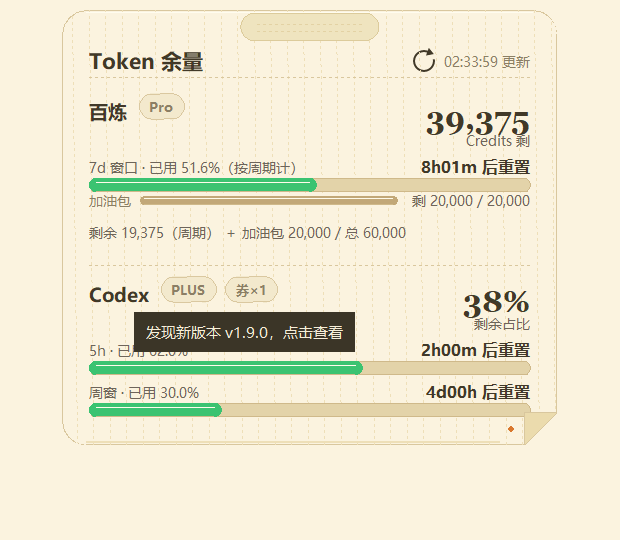
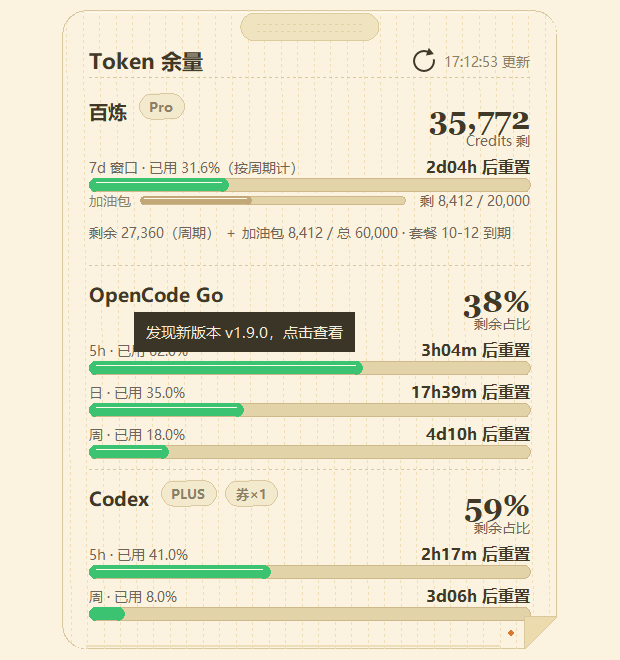
docs: 门面素材升级至 v1.8.3 三源真态模拟（Go 三窗条/套餐到期/官方图标）

diff --git a/tools/make_gif.py b/tools/make_gif.py
@@ -8,8 +8,8 @@
 便笺 495×435、弹窗 599×330、tooltip 等同屏元素同刻度，全部帧 1:1 截取无重采样，
 成品 620×540（宽 ≤660 达成）。
 
-帧序列（200ms/帧，无限循环）：
-    f1 静置两行（百炼 39,375 系假数据 + Codex 双主条）
+帧序列（200ms/帧，无限循环；v1.8.3 三源真态数据，与 tests/capture_m24.py 同口径）：
+    f1 静置三行（百炼 35,772＋套餐到期灰档后缀 / Go 三主条 5h·日·周 / Codex 双条 41%·8%）
     f2 发现新版橙点亮起（真实 _upd_new → _render 支路）
     f3 悬停 tooltip（真实 _tip_show 渲染，仅事件坐标为合成）
     f4 更新弹窗展开（SettingsPanel._up_open_dialog → UpdateDialog 真实构造）
@@ -50,8 +50,8 @@ import main as main_mod                                           # noqa: E402
 SRC_DIR = ROOT / "docs" / "screenshots" / "src"
 GIF_PATH = ROOT / "docs" / "screenshots" / "demo.gif"
 
-# 舞台：物理 620×540（S=1.5），成品宽 ≤660。所有帧同一矩形，屏幕坐标固定。
-STAGE = (40, 24, 620, 540)
+# 舞台：物理 620×660（S=1.5，三行浮窗 495×639），成品宽 ≤660。所有帧同一矩形。
+STAGE = (40, 24, 620, 660)
 NOTE_OFF = (62, 10)                        # 便笺左上角相对舞台（水平居中 495 宽）
 SCALE_FACTOR = 1.5                         # 强制渲染刻度（150% DPI 等效）
 DUR_MS = 200
@@ -59,12 +59,12 @@ DUR_MS = 200
 _NOW = datetime.now(timezone.utc)
 CFG = {"poll_seconds": 300, "low_yellow_pct": 0.15, "low_red_pct": 0.05,
        "always_on_top": True, "autostart": False,
-       "enabled_providers": ["bailian", "codex"],
+       "enabled_providers": ["bailian", "opencode_go", "codex"],
        "update": {"enabled": True, "repo": "WuJerry9376/token-widget",
                   "mirror": "", "last_check": time.time(),
                   "last_auto_date": "2000-01-01"}}
 
-# GIF 内弹窗演示用短 notes（保证弹窗宽 ≤ 舞台 330px；feature_dialog.png 才用长 notes
+# GIF 内弹窗演示用短 notes（保证弹窗宽 ≤ 舞台 620px；feature_dialog.png 才用长 notes
 # 实证 ≤6 行截断排版）。
 NOTES_GIF = (
     "• 发现新版改为专属弹窗确认\n"
@@ -75,23 +75,36 @@ TOTAL_BYTES = 11263948                     # 示例包大小 10.7 MB
 
 
 def u_bailian() -> Usage:
-    """演示数据：7d 周期 40,000 已用 51.6%（剩 19,375）＋ 加油包 20,000 → 大数字 39,375。"""
-    weekly, pct, ar = 40000.0, 0.515625, 20000.0
+    """v1.8.3 口径：7d=40,000 已用 31.6%（剩 27,360）＋加油包 8,412/20,000 →
+    大数字 35,772=Σfloor；C 行尾带 M23 套餐后缀（+23 天 → 恒灰档，重跑不变色）。"""
+    weekly, pct, ar = 40000.0, 0.316, 8412.0
     return Usage(provider="bailian", ok=True, spec="pro", unit="credits",
                  used=weekly * pct, total=60000.0,
                  remaining=weekly * (1 - pct) + ar, pct_used=pct,
-                 resets_at=_NOW + timedelta(hours=8, minutes=2),
-                 windows=[Window("7d", pct, _NOW + timedelta(hours=8, minutes=2))],
-                 addon_remaining=ar)
+                 resets_at=_NOW + timedelta(hours=52, minutes=12),
+                 windows=[Window("7d", pct, _NOW + timedelta(hours=52, minutes=12))],
+                 addon_remaining=ar,
+                 plan_end=_NOW + timedelta(days=23, hours=9))
+
+
+def u_go() -> Usage:
+    """M24B 三主条（含日）：5h 62% / 日 35% / 周 18%；大数字=最紧窗剩余 38%。"""
+    r5 = _NOW + timedelta(hours=3, minutes=5)
+    day = _NOW + timedelta(hours=17, minutes=40)
+    wk = _NOW + timedelta(days=4, hours=11)
+    return Usage(provider="opencode_go", ok=True, spec=None, unit="percent",
+                 pct_used=0.62, resets_at=r5,
+                 windows=[Window("5h", 0.62, r5), Window("日", 0.35, day),
+                          Window("周", 0.18, wk)])
 
 
 def u_codex() -> Usage:
-    """演示数据：5h 主条 62%（绿）+ 周主条 30%（M14 双主条）+ 券×1 角标。"""
+    """Codex plus：5h 41% + 周 8% 双主条（大数字 59%）；券×1；积分余额进 tooltip。"""
+    r5, wk = _NOW + timedelta(hours=2, minutes=18), _NOW + timedelta(days=3, hours=7)
     return Usage(provider="codex", ok=True, spec="plus", unit="percent",
-                 pct_used=0.62, resets_at=_NOW + timedelta(hours=2, minutes=1),
-                 windows=[Window("5h", 0.62, _NOW + timedelta(hours=2, minutes=1)),
-                          Window("周", 0.30, _NOW + timedelta(days=4, minutes=7))],
-                 addon_remaining=12.345, note="窗口重置券：可用 1")
+                 pct_used=0.41, resets_at=r5,
+                 windows=[Window("5h", 0.41, r5), Window("周", 0.08, wk)],
+                 addon_remaining=6.25, note="窗口重置券：可用 1")
 
 
 def make_info() -> updater.UpdateInfo:
@@ -160,10 +173,10 @@ def capture_frames(src_dir: Path) -> list[Path]:
         root.update()
         time.sleep(0.4)
 
-        # ---- f1 静置两行（渲染层注入假 Usage，与真数据同路径） ----
-        app.usages = [u_bailian(), u_codex()]
+        # ---- f1 静置三行（渲染层注入假 Usage，与真数据同路径） ----
+        app.usages = [u_bailian(), u_go(), u_codex()]
         app.meta = {"next_delay": 300, "ts": time.time(), "low": False}
-        app.last_good = {"bailian": app.usages[0], "codex": app.usages[1]}
+        app.last_good = {u.provider: u for u in app.usages}
         app._render()
         app._pos = (sx + NOTE_OFF[0], sy + NOTE_OFF[1])         # 记账位先行（_sync_size 用它回写）
         root.geometry(f"+{app._pos[0]}+{app._pos[1]}")

diff --git a/README.md b/README.md
@@ -2,7 +2,7 @@
 
 A Windows sticky-note widget that keeps your LLM subscription quotas on the desktop — Bailian Token Plan · OpenCode Go · ChatGPT Codex, at a glance, no browser tab required.
 
-![Demo: two provider rows, update dot, confirm dialog and download progress](docs/screenshots/demo.gif)
+![Demo: three provider rows, update dot, confirm dialog and download progress](docs/screenshots/demo.gif)
 
 [![release](https://img.shields.io/github/v/release/WuJerry9376/token-widget)](https://github.com/WuJerry9376/token-widget/releases)
 [![license](https://img.shields.io/badge/license-MIT-green)](LICENSE)
@@ -30,12 +30,12 @@ A Windows sticky-note widget that keeps your LLM subscription quotas on the desk
 
 | | |
 |---|---|
-| ![Main note: Bailian credits remaining with two Codex window bars](docs/screenshots/feature_note.png) | ![Settings: providers, proxy, update and display options](docs/screenshots/feature_settings.png) |
+| ![Main note: Bailian credits with plan-expiry note, OpenCode Go three windows, Codex plan bars](docs/screenshots/feature_note.png) | ![Settings: providers, proxy, update and display options](docs/screenshots/feature_settings.png) |
 | *Main note* | *Settings* |
 | ![Update dialog: version diff, release date, size and notes](docs/screenshots/feature_dialog.png) | ![After dragging close to the right edge, the note snaps flush](docs/screenshots/feature_snap.png) |
 | *Update dialog* | *Edge snap (right edge)* |
-| ![Close-up of the Codex row: two bars for the 5-hour and weekly windows](docs/screenshots/feature_dualbar.png) | |
-| *Codex dual progress bars* | |
+| ![OpenCode Go stacked windows: 5h/day/week bars](docs/screenshots/feature_go3bars.png) | ![Close-up of the Codex row: two bars for the 5-hour and weekly windows](docs/screenshots/feature_dualbar.png) |
+| *OpenCode Go three window bars* | *Codex dual progress bars* |
 
 ## Update & security
 
@@ -86,9 +86,9 @@ python cli.py                     # console view of the same collected data
 
 ### 界面一览
 
-主浮窗 / 设置页 / 更新弹窗 / 贴边吸附 / Codex 双进度条——见上文截图（alt 文案对应）。
+主浮窗 / 设置页 / 更新弹窗 / 贴边吸附 / OpenCode Go 三窗条 / Codex 双进度条——见上文截图（alt 文案对应）。
 
-> **演示数据说明**：截图与动图中的数值均为演示数据（示例口径 39,375 / v1.8.1→v1.9.0 等），非真实账户数据。真实凭据态下百炼/Codex 常为橙色告警档，观感不佳，故演示数值注入的是渲染层（与真数据同一条渲染路径），界面排版与实机一致。
+> **演示数据说明**：截图与动图中的数值均为演示数据（示例口径 35,772 / 「套餐 10-12 到期」/ 弹窗 v1.9.0 示例版本等），非真实账户数据。真实凭据态下各源常含橙色告警档，观感不佳，故演示数值注入的是渲染层（与真数据同一条渲染路径），界面排版与实机一致。
 
 ### 构建与验证
 
